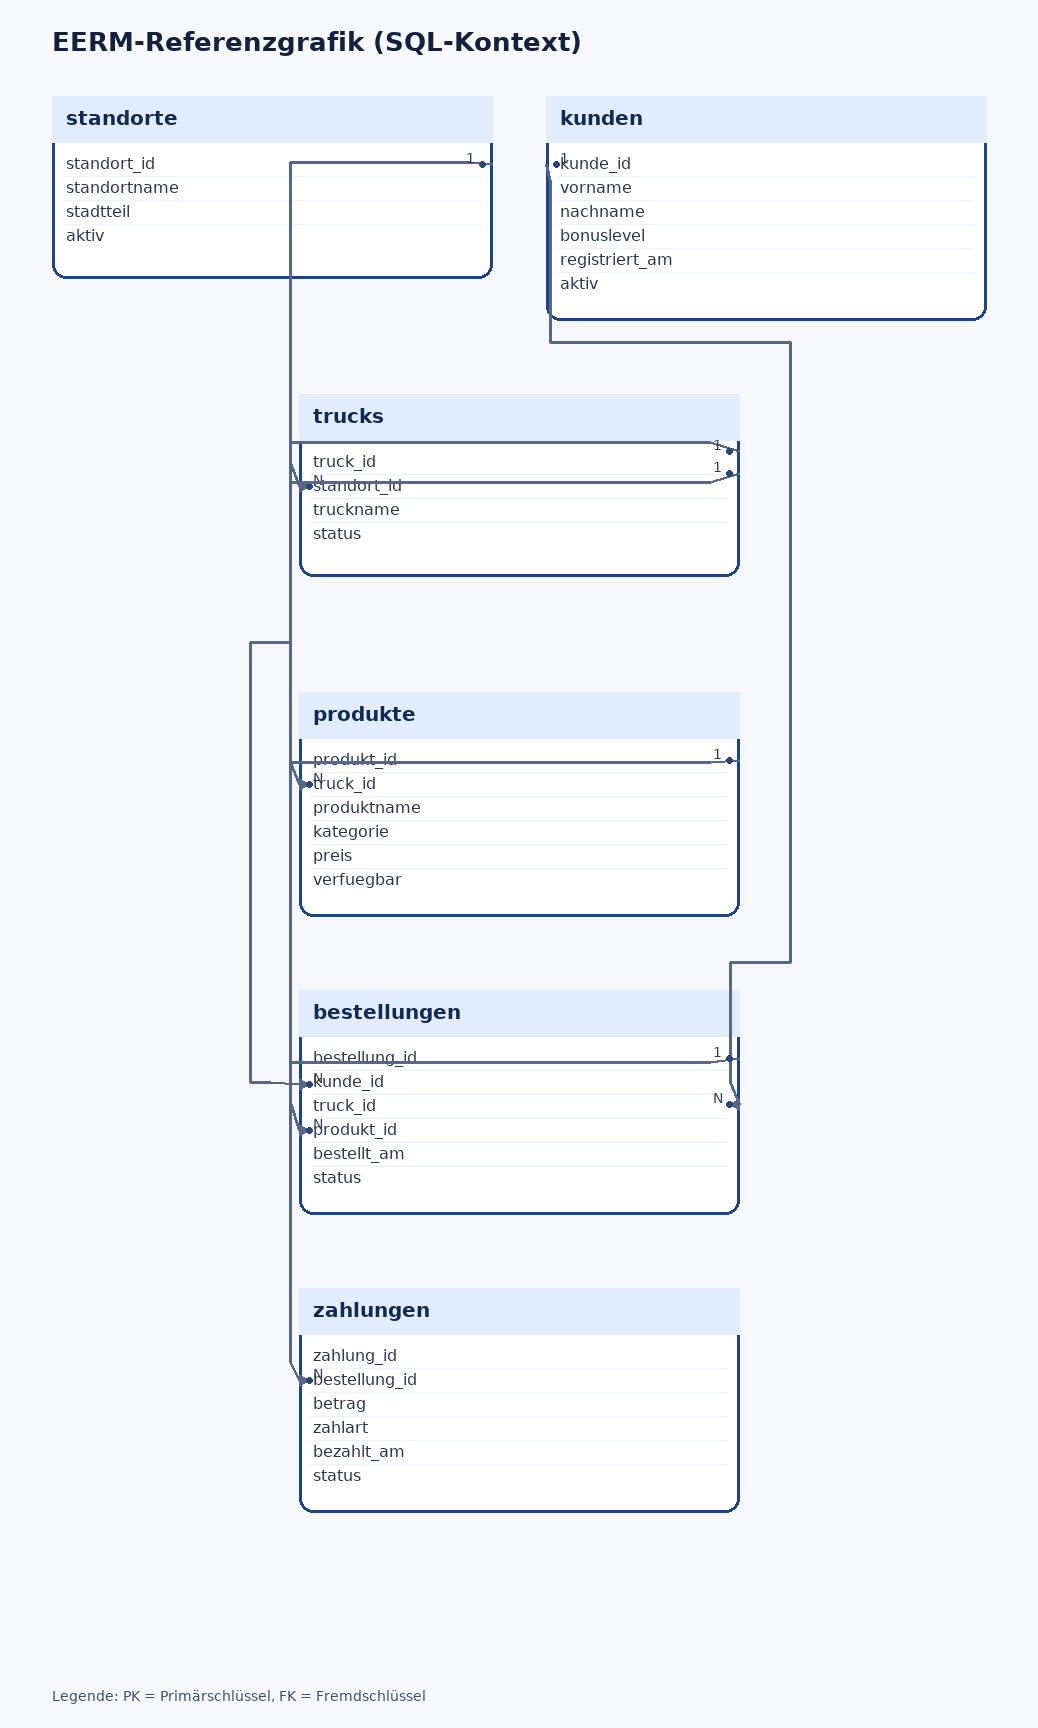
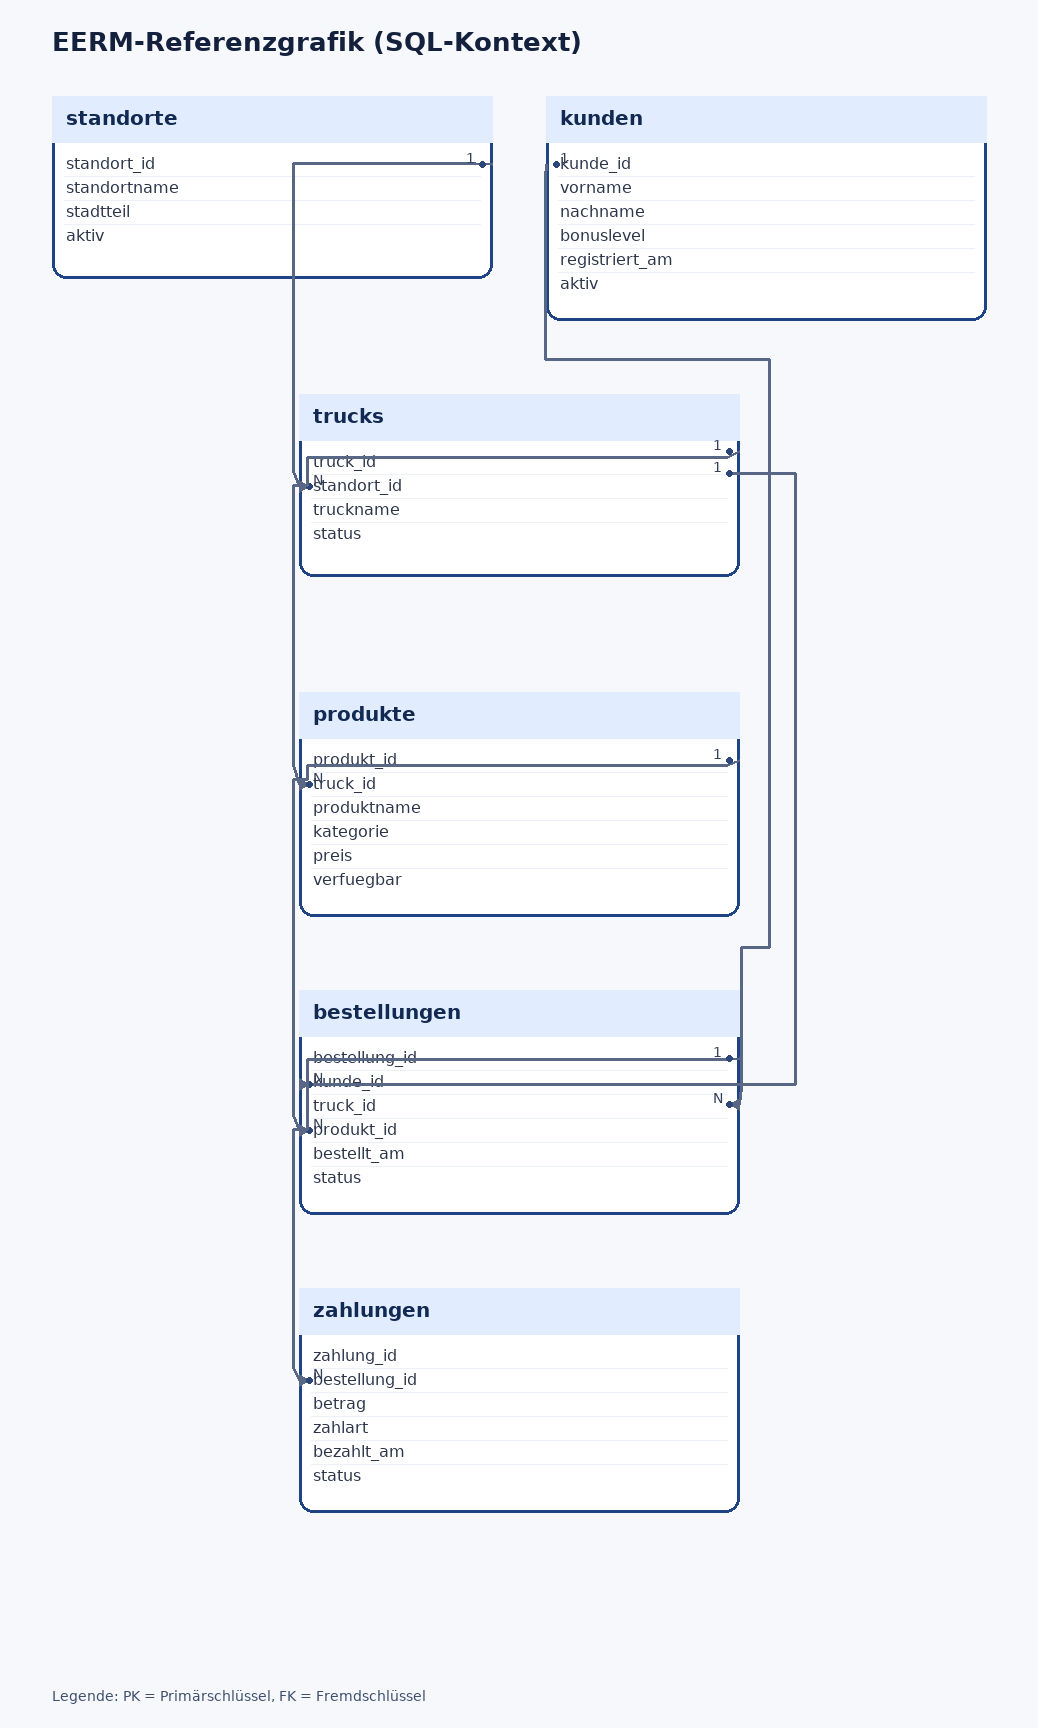
Aktualisiere EERM-Generator und regenerierte PNG-Artefakte

Changed region(s): [[0.2775, 0.0938, 0.7091, 0.7812], [0.5241, 0.0938, 0.7707, 0.5625], [0.4008, 0.5938, 0.7091, 0.625]]

diff --git a/scripts/plugins/eerm_grafik_generator/generate_eerm_png.py b/scripts/plugins/eerm_grafik_generator/generate_eerm_png.py
@@ -232,6 +232,7 @@ class SchemaDiagramRenderer:
 
         # draw relationships after boxes
         lane_count: dict[tuple[int, int], int] = {}
+        occupied_route_cells: set[tuple[int, int]] = set()
         ordered_fks = sorted(
             fks,
             key=lambda fk: (
@@ -265,6 +266,7 @@ class SchemaDiagramRenderer:
                 in_index=in_slot.get((fk.source_table, fk.target_table, fk.source_col), 0),
                 in_total=max(1, len(incoming[fk.source_table])),
                 lane=lane,
+                occupied_route_cells=occupied_route_cells,
             )
 
         legend = "Legende: PK = Primärschlüssel, FK = Fremdschlüssel"
@@ -486,6 +488,7 @@ class SchemaDiagramRenderer:
         in_index: int,
         in_total: int,
         lane: int,
+        occupied_route_cells: set[tuple[int, int]],
     ) -> None:
         slot_gap = 22 if self._strict_plus else 16
         parent_rect = parent_layout.rect
@@ -495,20 +498,54 @@ class SchemaDiagramRenderer:
         child_y = child_layout.row_y(fk.source_col)
 
         parent_on_left = ((parent_rect[0] + parent_rect[2]) // 2) <= ((child_rect[0] + child_rect[2]) // 2)
+        overlap_left = max(parent_rect[0], child_rect[0])
+        overlap_right = min(parent_rect[2], child_rect[2])
+        stacked_vertical = parent_rect[3] < child_rect[1] and (overlap_right - overlap_left) >= 80
 
-        if parent_on_left:
+        vertical_mode = False
+        start_marker: tuple[int, int]
+        end_marker: tuple[int, int]
+
+        if stacked_vertical:
+            vertical_mode = True
+            slot_gap_x = 18 if self._strict_plus else 12
+            overlap_mid = (overlap_left + overlap_right) // 2
+            sx = self._clamp(
+                overlap_mid + int((out_index - (out_total - 1) / 2) * slot_gap_x),
+                overlap_left + 12,
+                overlap_right - 12,
+            )
+            ex = self._clamp(
+                overlap_mid + int((in_index - (in_total - 1) / 2) * slot_gap_x),
+                overlap_left + 12,
+                overlap_right - 12,
+            )
+            sy_inner = parent_rect[3] - 10
+            sy = parent_rect[3]
+            ey = child_rect[1]
+            ey_inner = child_rect[1] + 10
+            start_marker = (sx, sy_inner)
+            end_marker = (ex, ey_inner)
+        elif parent_on_left:
             sx_inner = parent_rect[2] - 10
             sx = parent_rect[2]
             ex = child_rect[0]
             ex_inner = child_rect[0] + 10
+            start_marker = (sx_inner, parent_y)
+            end_marker = (ex_inner, child_y)
         else:
             sx_inner = parent_rect[0] + 10
             sx = parent_rect[0]
             ex = child_rect[2]
             ex_inner = child_rect[2] - 10
+            start_marker = (sx_inner, parent_y)
+            end_marker = (ex_inner, child_y)
 
-        sy = parent_y + int((out_index - (out_total - 1) / 2) * slot_gap)
-        ey = child_y + int((in_index - (in_total - 1) / 2) * slot_gap)
+        if not vertical_mode:
+            sy = parent_y + int((out_index - (out_total - 1) / 2) * slot_gap)
+            ey = child_y + int((in_index - (in_total - 1) / 2) * slot_gap)
+            start_marker = (start_marker[0], sy)
+            end_marker = (end_marker[0], ey)
 
         color = (88, 103, 133)
         width = 3
@@ -523,9 +560,13 @@ class SchemaDiagramRenderer:
             all_layouts=all_layouts,
             canvas_width=draw.im.size[0],
             canvas_height=draw.im.size[1],
+            occupied_route_cells=occupied_route_cells,
         )
         if route is None:
-            if parent_on_left and parent_rect[2] < child_rect[0]:
+            if vertical_mode:
+                lane_y = ((parent_rect[3] + child_rect[1]) // 2) + lane * (16 if self._strict_plus else 12)
+                points = [(sx, sy_inner), (sx, sy), (sx, lane_y), (ex, lane_y), (ex, ey), (ex, ey_inner)]
+            elif parent_on_left and parent_rect[2] < child_rect[0]:
                 lane_x = ((parent_rect[2] + child_rect[0]) // 2) + lane * (18 if self._strict_plus else 12)
                 points = [(sx_inner, sy), (sx, sy), (lane_x, sy), (lane_x, ey), (ex, ey), (ex_inner, ey)]
             elif (not parent_on_left) and child_rect[2] < parent_rect[0]:
@@ -537,6 +578,7 @@ class SchemaDiagramRenderer:
                     bus_x = max(parent_rect[2], child_rect[2]) + (56 if self._strict_plus else 34) + lane * (20 if self._strict_plus else 14)
                 else:
                     bus_x = min(parent_rect[0], child_rect[0]) - (56 if self._strict_plus else 34) - lane * (20 if self._strict_plus else 14)
+                bus_x = self._clamp(bus_x, 24, draw.im.size[0] - 24)
                 points = [
                     (sx_inner, sy),
                     (sx, sy),
@@ -546,19 +588,25 @@ class SchemaDiagramRenderer:
                     (ex_inner, ey),
                 ]
         else:
-            points = route
+            points, reserved_cells = route
+            occupied_route_cells.update(reserved_cells)
 
         for p1, p2 in zip(points, points[1:]):
             draw.line((*p1, *p2), fill=color, width=width)
 
         # small arrow at child side for clearer direction to FK table (points to FK).
-        if parent_on_left:
+        if vertical_mode:
+            draw.polygon([(ex, ey_inner), (ex - 6, ey_inner + 10), (ex + 6, ey_inner + 10)], fill=color)
+        elif parent_on_left:
             draw.polygon([(ex_inner, ey), (ex_inner - 10, ey - 6), (ex_inner - 10, ey + 6)], fill=color)
         else:
             draw.polygon([(ex_inner, ey), (ex_inner + 10, ey - 6), (ex_inner + 10, ey + 6)], fill=color)
 
         # Cardinality markers: parent side = 1, child side = N
-        if parent_on_left:
+        if vertical_mode:
+            draw.text((sx - 14, sy_inner - 14), "1", fill=(52, 64, 89), font=self._small_font)
+            draw.text((ex - 14, ey_inner + 4), "N", fill=(52, 64, 89), font=self._small_font)
+        elif parent_on_left:
             draw.text((sx_inner - 16, sy - 14), "1", fill=(52, 64, 89), font=self._small_font)
             draw.text((ex_inner + 4, ey - 14), "N", fill=(52, 64, 89), font=self._small_font)
         else:
@@ -566,8 +614,8 @@ class SchemaDiagramRenderer:
             draw.text((ex_inner - 16, ey - 14), "N", fill=(52, 64, 89), font=self._small_font)
 
         # Compact endpoint markers avoid text clutter in dense diagrams.
-        draw.ellipse((sx_inner - 3, sy - 3, sx_inner + 3, sy + 3), fill=(44, 70, 121))
-        draw.ellipse((ex_inner - 3, ey - 3, ex_inner + 3, ey + 3), fill=(44, 70, 121))
+        draw.ellipse((start_marker[0] - 3, start_marker[1] - 3, start_marker[0] + 3, start_marker[1] + 3), fill=(44, 70, 121))
+        draw.ellipse((end_marker[0] - 3, end_marker[1] - 3, end_marker[0] + 3, end_marker[1] + 3), fill=(44, 70, 121))
 
     def _route_around_tables(
         self,
@@ -578,10 +626,11 @@ class SchemaDiagramRenderer:
         all_layouts: dict[str, TableLayout],
         canvas_width: int,
         canvas_height: int,
-    ) -> list[tuple[int, int]] | None:
-        margin = 30 if self._strict_plus else 22
-        cell_size = 20 if self._strict_plus else 18
-        bounds = (20, 72, canvas_width - 20, canvas_height - 56)
+        occupied_route_cells: set[tuple[int, int]],
+    ) -> tuple[list[tuple[int, int]], set[tuple[int, int]]] | None:
+        margin = 20 if self._strict_plus else 14
+        cell_size = 14 if self._strict_plus else 12
+        bounds = self._routing_bounds(all_layouts, canvas_width, canvas_height)
 
         blocked: set[tuple[int, int]] = set()
         for name, layout in all_layouts.items():
@@ -591,6 +640,7 @@ class SchemaDiagramRenderer:
 
         start_cell = self._point_to_cell(start, bounds, cell_size)
         end_cell = self._point_to_cell(end, bounds, cell_size)
+        blocked.update(occupied_route_cells)
         blocked.discard(start_cell)
         blocked.discard(end_cell)
 
@@ -602,7 +652,45 @@ class SchemaDiagramRenderer:
         for cell in path_cells[1:-1]:
             points.append(self._cell_to_point(cell, bounds, cell_size))
         points.append(end)
-        return self._compress_polyline(points)
+        compressed = self._compress_polyline(points)
+        reserved_cells = set(path_cells[1:-1])
+        return compressed, reserved_cells
+
+    def _routing_bounds(
+        self,
+        all_layouts: dict[str, TableLayout],
+        canvas_width: int,
+        canvas_height: int,
+    ) -> tuple[int, int, int, int]:
+        if not all_layouts:
+            return (20, 72, canvas_width - 20, canvas_height - 56)
+
+        min_x = min(layout.rect[0] for layout in all_layouts.values())
+        min_y = min(layout.rect[1] for layout in all_layouts.values())
+        max_x = max(layout.rect[2] for layout in all_layouts.values())
+        max_y = max(layout.rect[3] for layout in all_layouts.values())
+
+        pad_x = 80 if self._strict_plus else 60
+        pad_y_top = 36
+        pad_y_bottom = 72 if self._strict_plus else 56
+
+        left = self._clamp(min_x - pad_x, 20, canvas_width - 40)
+        top = self._clamp(min_y - pad_y_top, 72, canvas_height - 80)
+        right = self._clamp(max_x + pad_x, 40, canvas_width - 20)
+        bottom = self._clamp(max_y + pad_y_bottom, 100, canvas_height - 56)
+
+        if right <= left:
+            left, right = 20, canvas_width - 20
+        if bottom <= top:
+            top, bottom = 72, canvas_height - 56
+        return (left, top, right, bottom)
+
+    def _clamp(self, value: int, low: int, high: int) -> int:
+        if value < low:
+            return low
+        if value > high:
+            return high
+        return value
 
     def _a_star_path(
         self,
@@ -616,7 +704,16 @@ class SchemaDiagramRenderer:
         height_cells = max(1, ((bounds[3] - bounds[1]) // cell_size) + 1)
 
         def heuristic(cell: tuple[int, int]) -> int:
-            return abs(cell[0] - goal[0]) + abs(cell[1] - goal[1])
+            return (abs(cell[0] - goal[0]) + abs(cell[1] - goal[1])) * 10
+
+        def edge_penalty(cell: tuple[int, int]) -> int:
+            x, y = cell
+            penalty = 0
+            if x <= 1 or x >= width_cells - 2:
+                penalty += 6
+            if y <= 1 or y >= height_cells - 2:
+                penalty += 4
+            return penalty
 
         open_heap: list[tuple[int, int, tuple[int, int]]] = []
         heapq.heappush(open_heap, (heuristic(start), 0, start))
@@ -642,7 +739,7 @@ class SchemaDiagramRenderer:
                 if neighbor in blocked:
                     continue
 
-                tentative = current_cost + 1
+                tentative = current_cost + 10 + edge_penalty(neighbor)
                 if tentative >= g_score.get(neighbor, 1_000_000_000):
                     continue
 

diff --git a/scripts/plugins/eerm_grafik_generator/README.md b/scripts/plugins/eerm_grafik_generator/README.md
@@ -57,6 +57,8 @@ python3 scripts/plugins/eerm_grafik_generator/generate_eerm_png.py \
 - Rendert daraus Tabellenkarten und FK-Beziehungen als PNG
 - Standard-Workflow erzeugt A4-portrait-freundliche Diagramme (Entitaetstypen staerker untereinander)
 - Routed FK-Linien orthogonal um unbeteiligte Tabellen herum, statt Karten zu kreuzen
+- Reserviert bereits verwendete Routing-Zellen pro Verbindung, damit FK-Linien nicht deckungsgleich aufeinander liegen
+- Begrenzt Routing-Korridore auf den Diagrammbereich, um lange Aussenumwege (insbesondere rechts) zu reduzieren
 - Ueberschreibt bestehende PNGs nur mit `--force`
 - Betroffene Markdown-Dateien erhalten (falls fehlend) einen Abschnitt "Modellgrafik Teil C" mit PNG-Einbettung
 